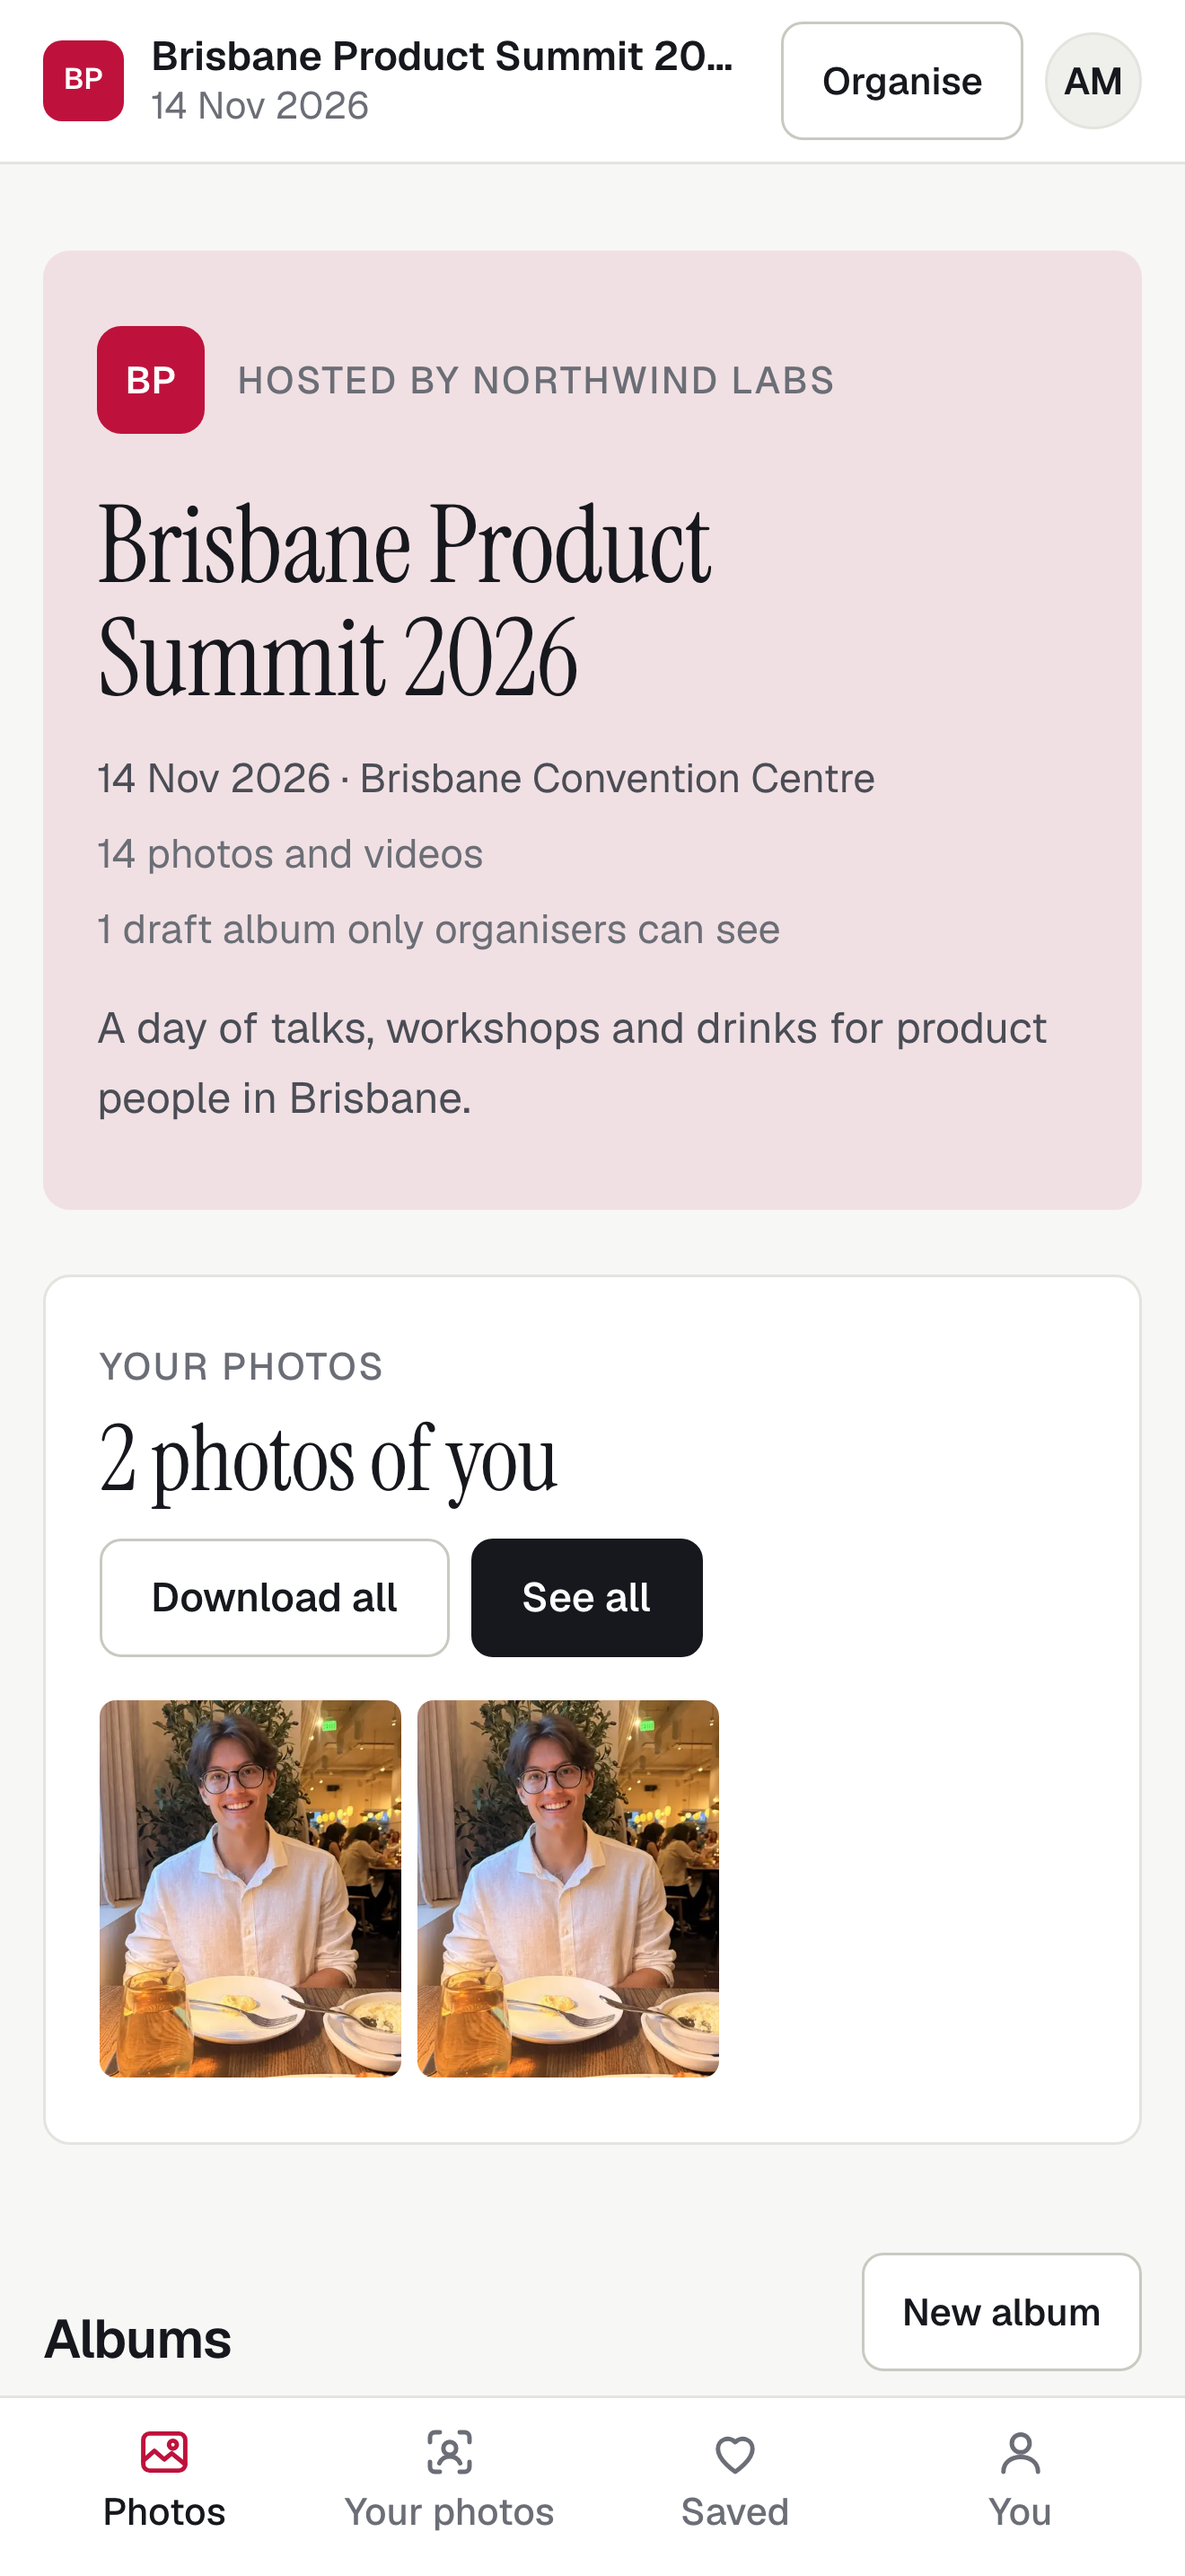
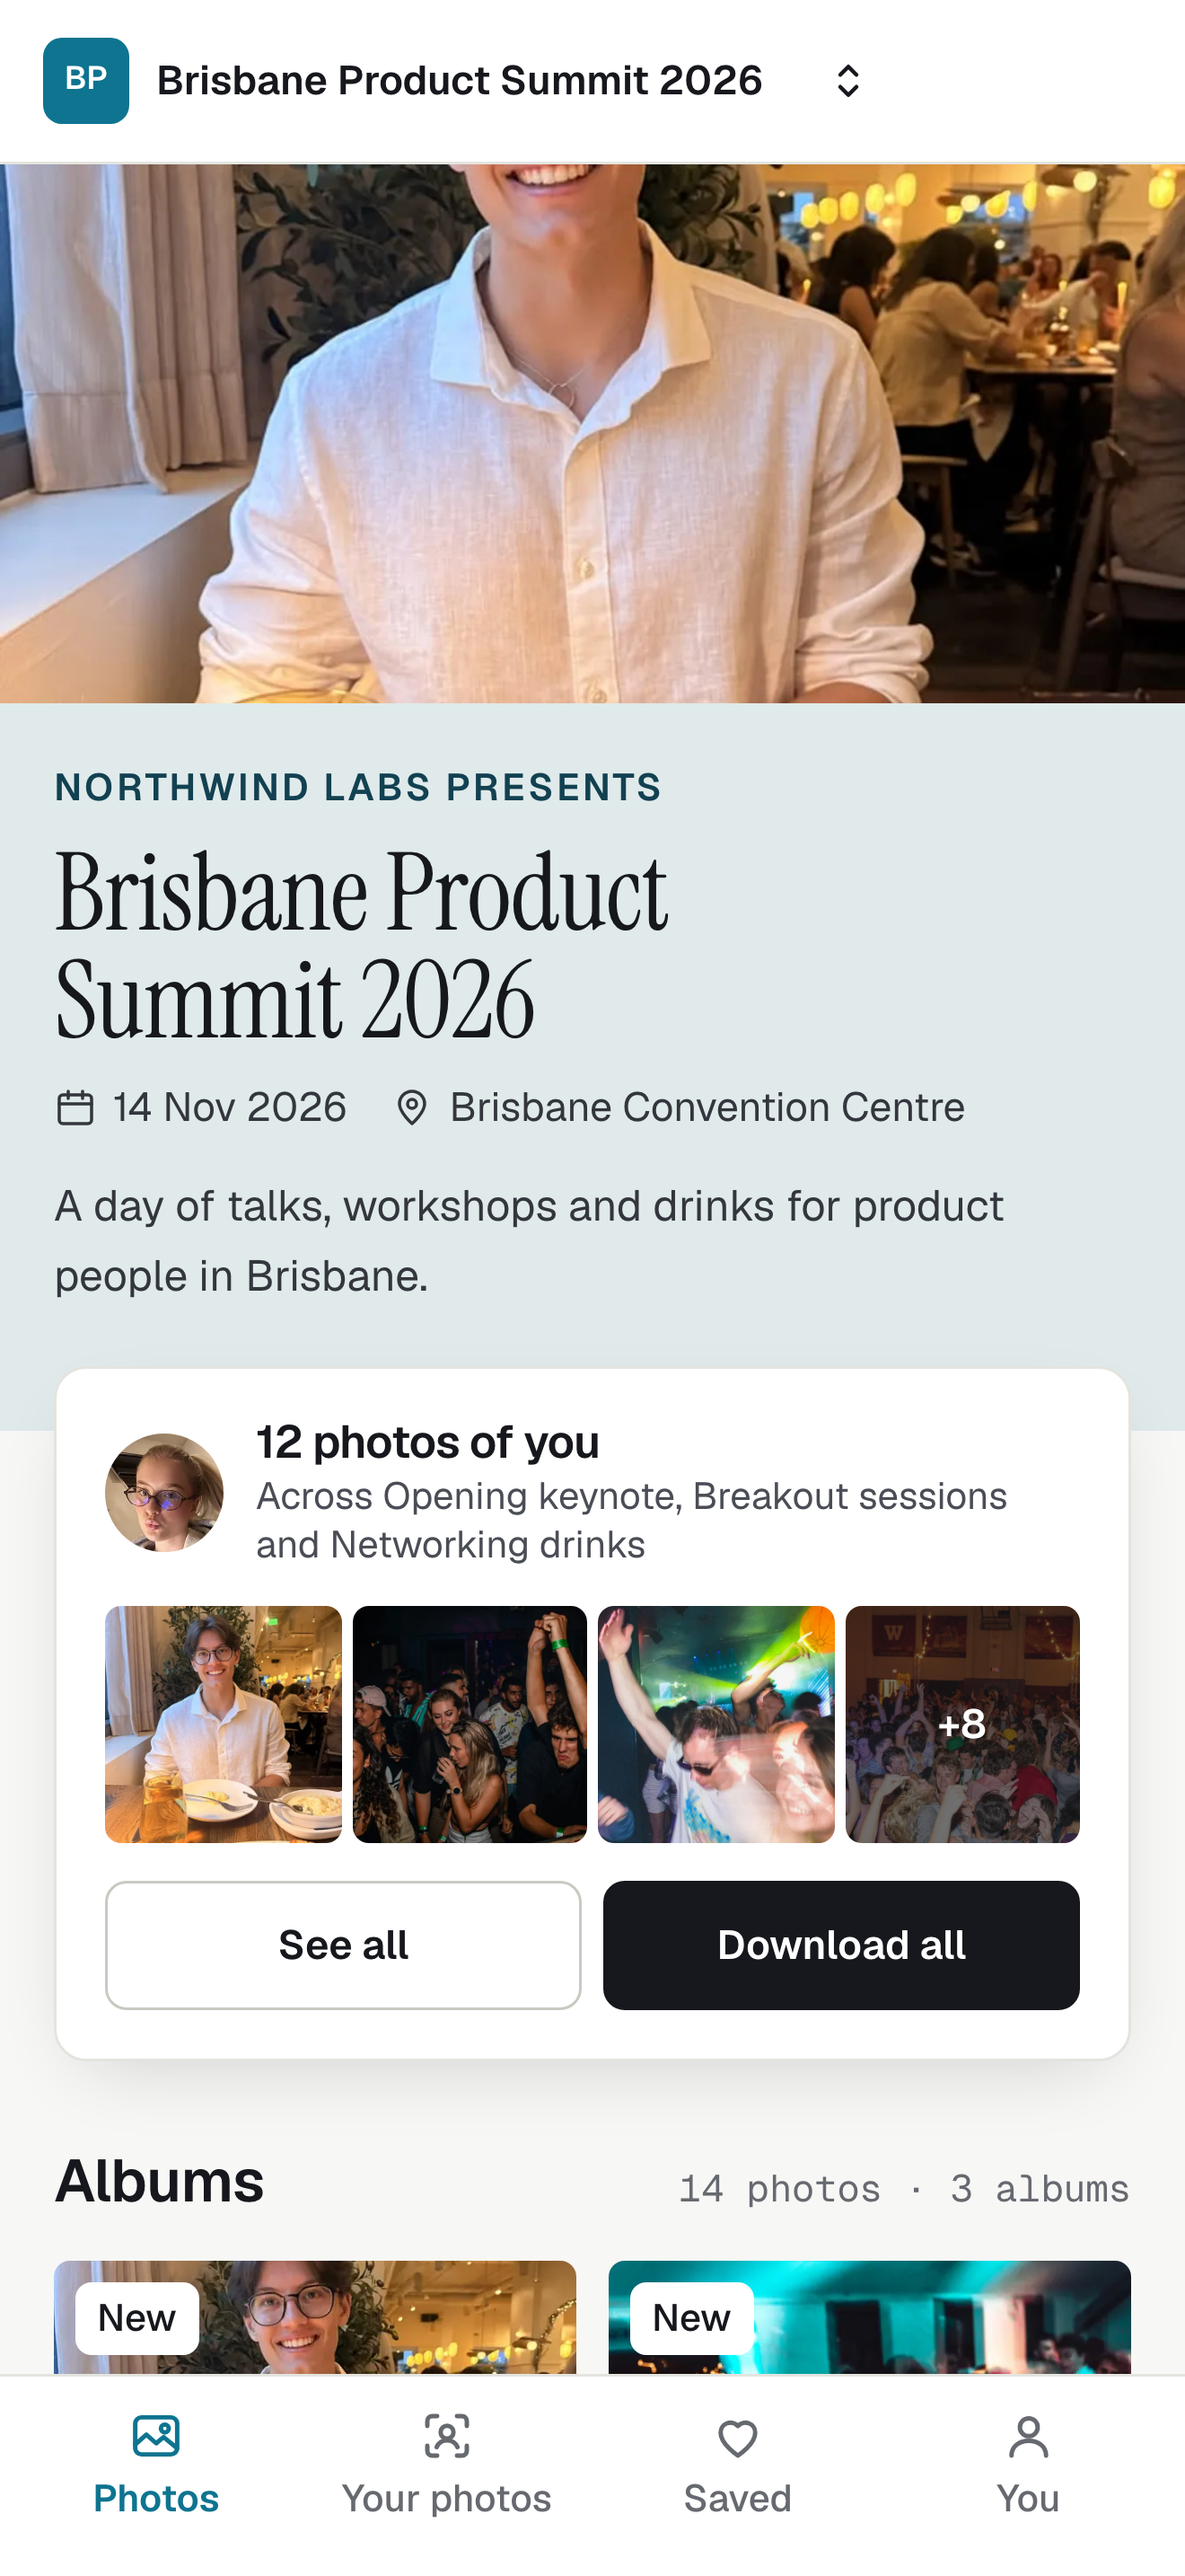
App Store: new screenshots, notifications only once they can be sent.
- Screenshots retaken in the new design: an attendee's gallery with
  "12 photos of you", the album, viewer, join screen and the organiser's
  Overview. The script now gives the local demo attendee a selfie and demo
  matches (face matching needs AWS), shoots the gallery as that attendee,
  stops waiting on images in closed fold-outs, and shows the live host.
- The notification card and the phone notifications row only appear once
  the APNs key is set, so nobody can turn on a feature that sends nothing.
- Listing: notifications out of the description and reviewer notes until
  then; the notes lead with what's built for iPhone and spell out removal
  requests and removing attendees.

diff --git a/scripts/app-store-screenshots.ts b/scripts/app-store-screenshots.ts
@@ -7,15 +7,20 @@
  *   pnpm dev --port 3300 # in another terminal
  *   pnpm tsx --env-file=.env.local scripts/app-store-screenshots.ts
  *
- * Writes PNGs to docs/app-store/screenshots/. Signs in the demo organiser by
- * minting a code with the service role, the way the e2e tests do.
+ * Writes PNGs to docs/app-store/screenshots/. Signs in by minting a code with
+ * the service role, the way the e2e tests do: a demo attendee for the gallery
+ * screens, the demo organiser for the Overview. Face matching needs AWS, so on
+ * a local server the attendee is given a selfie and a dozen confirmed matches
+ * first (local only), and the Overview's localhost link reads as the live one.
  */
-import { mkdir } from "node:fs/promises";
+import { mkdir, readFile } from "node:fs/promises";
 import { chromium, type BrowserContext, type Page } from "@playwright/test";
 import { createClient } from "@supabase/supabase-js";
 
 const BASE = process.env.SCREENSHOT_BASE_URL ?? "http://localhost:3300";
 const EMAIL = (process.env.DEMO_ADMIN_EMAIL ?? "organiser.demo@klubbies.test").toLowerCase();
+const ATTENDEE = { email: "priya.raman@acme.example.test", name: "Priya Raman" };
+const LIVE_HOST = "events.klubbies.app";
 const HANDLE = "demo_summit";
 const OUT = "docs/app-store/screenshots";
 const APP_UA =
@@ -27,28 +32,90 @@ function admin() {
   });
 }
 
-async function signIn(context: BrowserContext) {
+async function signIn(context: BrowserContext, email = EMAIL, name = "Alex Morgan") {
   const db = admin();
   await db.from("pending_sign_ins").upsert({
-    email: EMAIL,
-    claimed_name: "Alex Morgan",
+    email,
+    claimed_name: name,
     flow: "member",
     attempts: 0,
     expires_at: new Date(Date.now() + 600_000).toISOString(),
   });
-  const { data, error } = await db.auth.admin.generateLink({ type: "magiclink", email: EMAIL });
+  const { data, error } = await db.auth.admin.generateLink({ type: "magiclink", email });
   if (error) throw error;
-  await context.addCookies([{ name: "kb_signin", value: EMAIL, url: BASE }]);
+  await context.addCookies([{ name: "kb_signin", value: email, url: BASE }]);
   const res = await context.request.post(`${BASE}/api/auth/verify_code`, { data: { code: data.properties.email_otp } });
   if (!res.ok()) throw new Error(`sign in failed: ${res.status()}`);
 }
 
+/**
+ * Local only: the demo attendee has read the face notice, has a selfie and is
+ * matched in a dozen photos, so Your photos shows what it does. The matches
+ * are marked collection "demo" and replaced on each run.
+ */
+async function seedDemoMatches() {
+  if (!/localhost|127\.0\.0\.1/.test(BASE)) return;
+  const db = admin();
+  const { data: event } = await db.from("events").select("id").eq("handle", HANDLE).single();
+  const { data: user } = await db.from("users").select("id").eq("email", ATTENDEE.email).single();
+  if (!event || !user) throw new Error("Run pnpm demo first");
+  const { data: membership } = await db.from("memberships").select("id").eq("event_id", event.id).eq("user_id", user.id).single();
+  if (!membership) throw new Error(`${ATTENDEE.email} isn't in ${HANDLE}`);
+  await db.from("memberships").update({ face_notice_ack_at: new Date().toISOString() }).eq("id", membership.id);
+
+  const selfiePath = `${event.id}/selfies/${user.id}-demo.webp`;
+  await db.storage.from("event_media").upload(selfiePath, await readFile("public/marketing/selfie.webp"), { upsert: true, contentType: "image/webp" });
+  await db.from("media_faces").delete().eq("event_id", event.id).eq("collection_id", "demo");
+  await db.from("member_face_profiles").delete().eq("membership_id", membership.id);
+  const { data: profile, error } = await db
+    .from("member_face_profiles")
+    .insert({ event_id: event.id, membership_id: membership.id, user_id: user.id, status: "ready", selfie_path: selfiePath, consent_version: "events-2026-09-27" })
+    .select("id")
+    .single();
+  if (error || !profile) throw error ?? new Error("No profile");
+
+  const { data: photos } = await db
+    .from("media")
+    .select("id, albums!media_album_id_fkey!inner(status)")
+    .eq("event_id", event.id)
+    .eq("kind", "photo")
+    .eq("status", "ready")
+    .eq("albums.status", "published")
+    .order("sort_at")
+    .limit(12);
+  const box = { Left: 0.35, Top: 0.2, Width: 0.3, Height: 0.4 };
+  for (const photo of photos ?? []) {
+    const { data: face } = await db
+      .from("media_faces")
+      .insert({ event_id: event.id, media_id: photo.id, collection_id: "demo", rekognition_face_id: `demo-${photo.id}`, bounding_box: box })
+      .select("id")
+      .single();
+    if (!face) continue;
+    await db.from("face_matches").insert({
+      event_id: event.id,
+      media_id: photo.id,
+      media_face_id: face.id,
+      profile_id: profile.id,
+      similarity: 99,
+      state: "confirmed",
+      bounding_box: box,
+      decided_at: new Date().toISOString(),
+    });
+  }
+  console.log(`demo attendee matched in ${photos?.length ?? 0} photos`);
+}
+
 async function settle(page: Page) {
   await page.waitForLoadState("networkidle");
-  // Images fade in over 150ms; let every one finish.
+  // Images fade in over 150ms; let every one finish. Lazy images in a closed
+  // fold-out never load, so each gets five seconds at most.
   await page.evaluate(async () => {
     await Promise.all(
-      [...document.images].map((img) => (img.complete ? null : new Promise((resolve) => (img.onload = img.onerror = resolve)))),
+      [...document.images].map((img) =>
+        img.complete
+          ? null
+          : Promise.race([new Promise((resolve) => (img.onload = img.onerror = resolve)), new Promise((resolve) => setTimeout(resolve, 5000))]),
+      ),
     );
   });
   // The dev-mode indicator is not part of the product.
@@ -75,8 +142,10 @@ async function main() {
   await shoot(guestPage, "05-join", `/signin?event=${HANDLE}`);
   await guest.close();
 
+  // The gallery, as an attendee sees it.
+  await seedDemoMatches();
   const context = await browser.newContext(device);
-  await signIn(context);
+  await signIn(context, ATTENDEE.email, ATTENDEE.name);
   const page = await context.newPage();
 
   await shoot(page, "01-event", `/e/${HANDLE}`);
@@ -102,7 +171,19 @@ async function main() {
     .limit(1)
     .single();
   await shoot(page, "04-viewer", `/e/${HANDLE}/a/${album!.id}/${photo!.id}`);
-  await shoot(page, "06-organiser", `/admin/${HANDLE}`);
+
+  // The organiser's Overview.
+  const organiser = await browser.newContext(device);
+  await signIn(organiser);
+  const organiserPage = await organiser.newPage();
+  await shoot(organiserPage, "06-organiser", `/admin/${HANDLE}`, async (p) => {
+    await p.evaluate((host) => {
+      const walker = document.createTreeWalker(document.body, NodeFilter.SHOW_TEXT);
+      for (let node = walker.nextNode(); node; node = walker.nextNode()) {
+        if (node.textContent?.includes("localhost:3300")) node.textContent = node.textContent.replace("localhost:3300", host);
+      }
+    }, LIVE_HOST);
+  });
 
   await browser.close();
 }

diff --git a/app/(app)/e/[handle]/page.tsx b/app/(app)/e/[handle]/page.tsx
@@ -6,6 +6,7 @@ import { FaceNotice } from "@/components/FaceNotice";
 import { EventMark } from "@/components/EventMark";
 import { MarkVisited } from "@/components/MarkVisited";
 import { PushPrompt } from "@/components/PushPrompt";
+import { apnsConfigured } from "@/lib/push/apns";
 import { YourPhotosCard } from "@/components/event/YourPhotosCard";
 import { getEventContext } from "@/lib/auth/session";
 import { countPhotosOfYou, faceStateFor, listPhotosOfYou } from "@/lib/faces/queries";
@@ -150,8 +151,9 @@ export default async function EventHomePage(props: PageProps<"/e/[handle]">) {
           </div>
         ) : null}
 
-        {/* One ask at a time: the notification card waits behind the face notice. */}
-        {needsNotice ? null : <PushPrompt eventName={event.name} />}
+        {/* One ask at a time: the notification card waits behind the face notice.
+            Not offered at all until the server can send (the APNs key is set). */}
+        {needsNotice || !apnsConfigured() ? null : <PushPrompt eventName={event.name} />}
 
         <section
           className={`flex flex-col gap-4 lg:gap-6 ${needsNotice ? "pointer-events-none select-none opacity-35" : ""}`}

diff --git a/app/(app)/account/page.tsx b/app/(app)/account/page.tsx
@@ -12,6 +12,7 @@ import { NotificationToggles, PasswordForm, ProfileRow } from "./AccountForms";
 import { DeleteAccount } from "./DeleteAccount";
 import { FaceRow } from "./FaceRow";
 import { PhoneNotifications } from "./PhoneNotifications";
+import { apnsConfigured } from "@/lib/push/apns";
 
 export const metadata: Metadata = { title: "Your profile" };
 
@@ -76,7 +77,7 @@ export default async function AccountPage(props: PageProps<"/account">) {
             Email me when
           </h2>
           <div className="kb-group">
-            <PhoneNotifications />
+            {apnsConfigured() ? <PhoneNotifications /> : null}
             <NotificationToggles
               initial={{
                 notify_new_album: profile.notify_new_album,

diff --git a/docs/app-store/listing.md b/docs/app-store/listing.md
@@ -40,9 +40,6 @@ Save photos straight into your Photos library, download a whole album or all you
 PRIVATE BY DEFAULT
 Nothing is public. Only people the organiser let in can see an event, every photo is served through a link that expires within minutes, and the gallery closes on the date the organiser sets. If you're in a photo you want gone, ask for it to come down: it's hidden straight away while the organiser decides.
 
-NEW PHOTOS, TOLD STRAIGHT AWAY
-Turn on notifications and hear when a new album is published.
-
 FOR ORGANISERS
 Create an event, add your logo and colour, give each photographer their own upload link, and share the QR code. See who joined, what was downloaded, and handle removal requests from your phone. Events are set up and paid for on the website.
 
@@ -60,14 +57,14 @@ The first release of Klubbies Events.
 
 In `docs/app-store/screenshots/`, in this order:
 
-1. `01-event.png`: an event's page, branded, with the attendee's own photos at the top
+1. `01-event.png`: an event's page, branded, with "12 photos of you" at the top
 2. `02-your-photos.png`: Your photos, found with a selfie
-3. `03-album.png`: an album
-4. `04-viewer.png`: the photo viewer with Save and Download
+3. `03-album.png`: an album, as an attendee sees it
+4. `04-viewer.png`: the photo viewer with Download, Details and Remove
 5. `05-join.png`: the join screen the QR scanner opens
-6. `06-organiser.png`: the organiser's overview
+6. `06-organiser.png`: the organiser's Overview with the QR code
 
-Regenerate them with `scripts/app-store-screenshots.ts` (instructions at the top of the file). Check you are happy for the people in the demo photos to appear in the App Store before uploading.
+Retaken in the new design on 17 Oct 2026. Regenerate them with `scripts/app-store-screenshots.ts` (instructions at the top of the file); on a local server it gives the demo attendee a selfie and demo matches first, since face matching needs AWS. Check you are happy for the people in the demo photos to appear in the App Store before uploading.
 
 ## App Privacy
 
@@ -142,20 +139,24 @@ To set it up once the live site works (Claude can do this with your OK, since it
 
 ### Notes for the reviewer
 
-Klubbies Events shares photos from private events: conferences, launches and meetups. An organiser creates an event on our website, photographers upload to it, and attendees join by scanning the event's QR code or opening its link, then confirming their email with a one-time code.
+Klubbies Events shares photos from private events: conferences, launches and club events. An organiser creates an event on our website, photographers upload to it, and attendees join by scanning the event's QR code or opening its link, then confirming their email with a one-time code.
 
 To review: tap "Use a password instead" on the sign-in screen and use the demo account above. It is an attendee of a demo event with photos.
 
-- Scan the event's QR code: on the sign-in screen and on Your events. It opens only Klubbies Events links and refuses any other code.
-- Your photos: finds the photos you're in from an optional selfie. Consent is asked on that screen, only the account holder sees their matches, and it can be turned off, which deletes the faceprint.
-- Save to Photos (add-only access), downloads, notifications for new albums, an offline screen.
+Built for iPhone, beyond the website:
+- A native QR scanner (on the sign-in screen and on Your events). It opens only Klubbies Events links and refuses any other code.
+- Save to Photos straight into the photo library (add-only access), and downloads of whole albums.
+- A native offline screen and launch screen.
+
+Also worth checking:
+- Your photos: finds the photos you're in from an optional selfie. Consent is asked on that screen, only the account holder sees their matches, and turning it off deletes the faceprint.
 - Account deletion: Profile (the "You" tab), Delete my account.
-- Reporting content: open a photo, More, Request removal. It is hidden immediately and the organiser decides; we act on reports to support@klubbies.app within 24 hours.
-- Payments: organisers pay per event on our website. The app contains no purchases and no links or buttons to pay.
+- User content: every photo has Remove (request removal), which hides it immediately while the organiser decides. Organisers can remove any attendee from their event. We act on reports to support@klubbies.app within 24 hours.
+- Payments: organisers pay per event on our website. The app contains no purchases and no links, buttons or wording about paying.
 
 ## Before you submit
 
 - `SUPABASE_SERVICE_ROLE_KEY` set in Vercel, so the live site can sign people in.
 - `support@klubbies.app` receives email (the support page's contact form sends to it, and every email's Reply-To is it).
-- APNs variables set in Vercel if you want notifications at launch (see `ios/README.md`, step 5).
+- Notifications: the app only offers them once the APNs variables are set in Vercel (`ios/README.md`, step 5). Until then they are left out of the description and the reviewer notes; add both back when they work.
 - The reviewer account above works on a phone, not just on the Mac.
